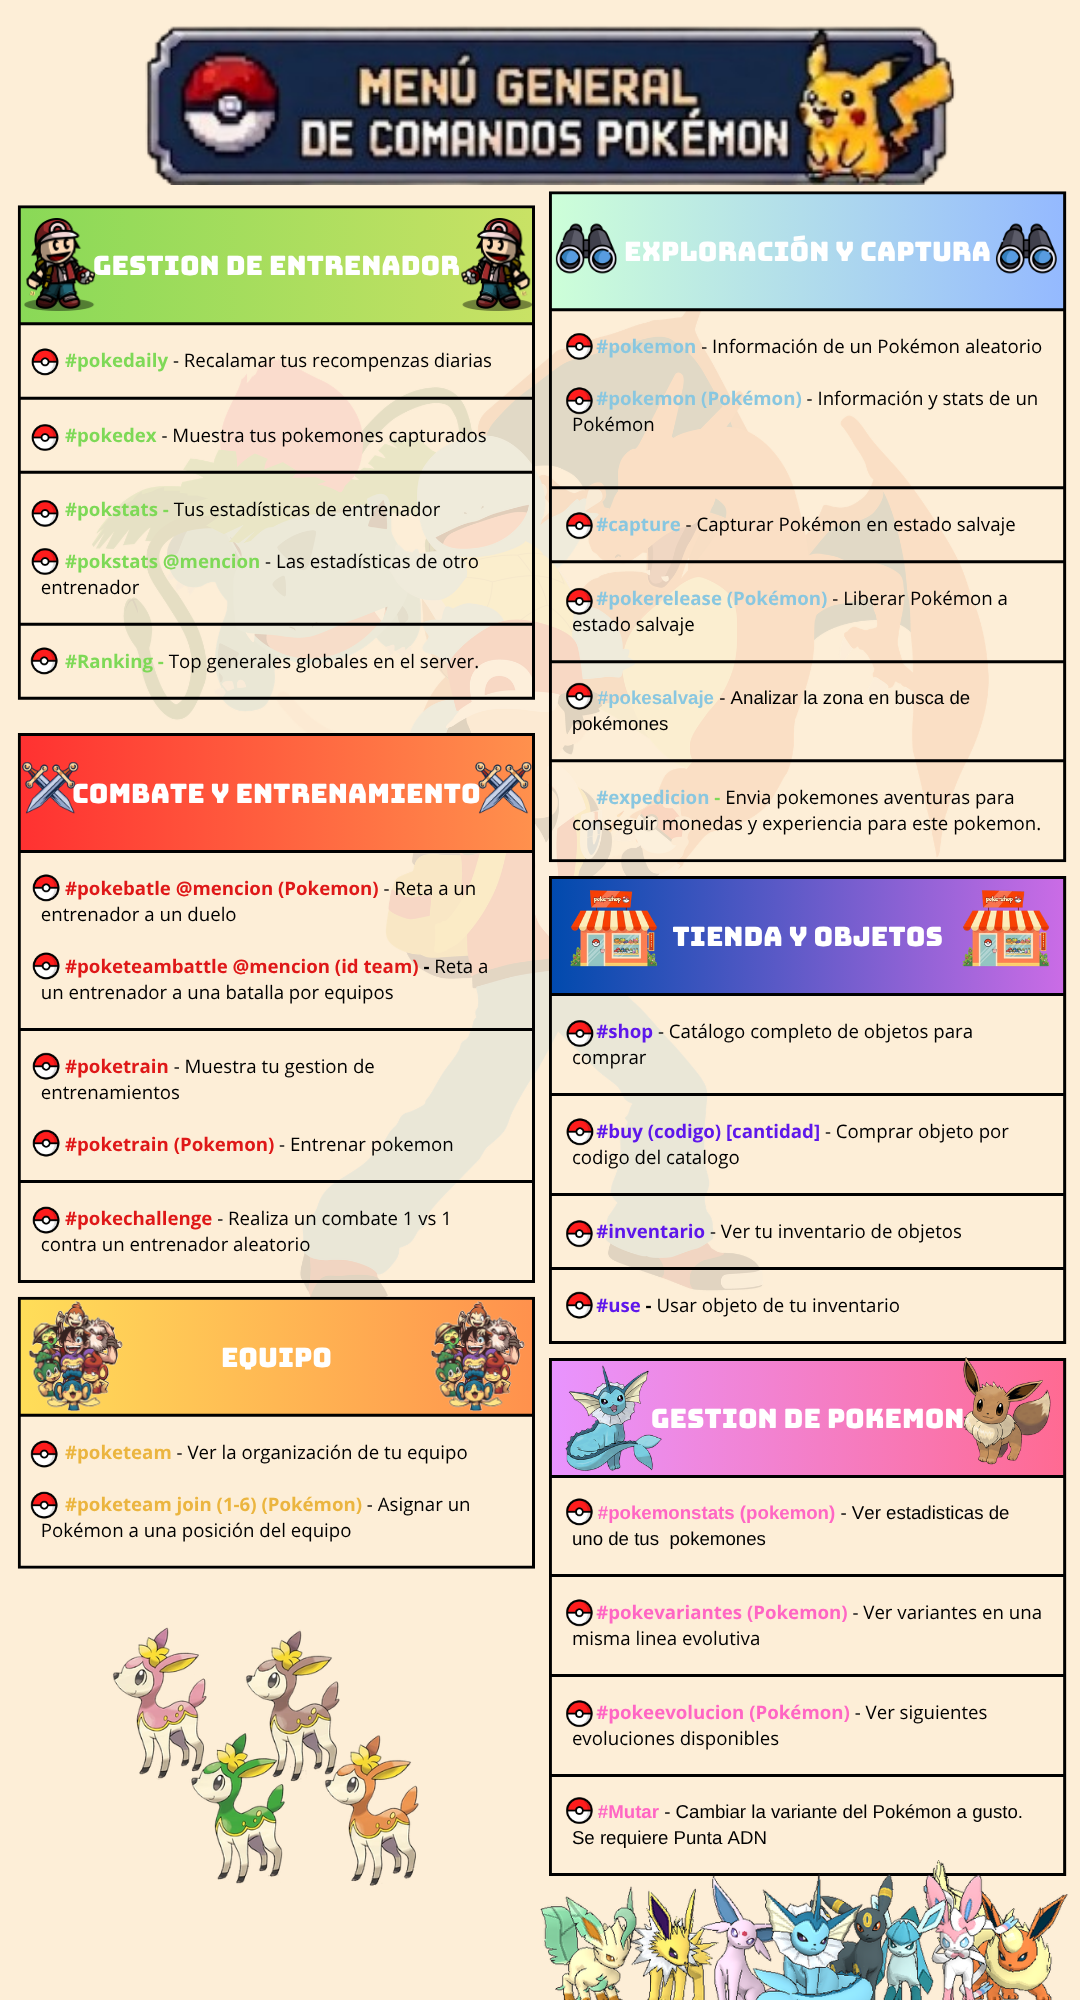
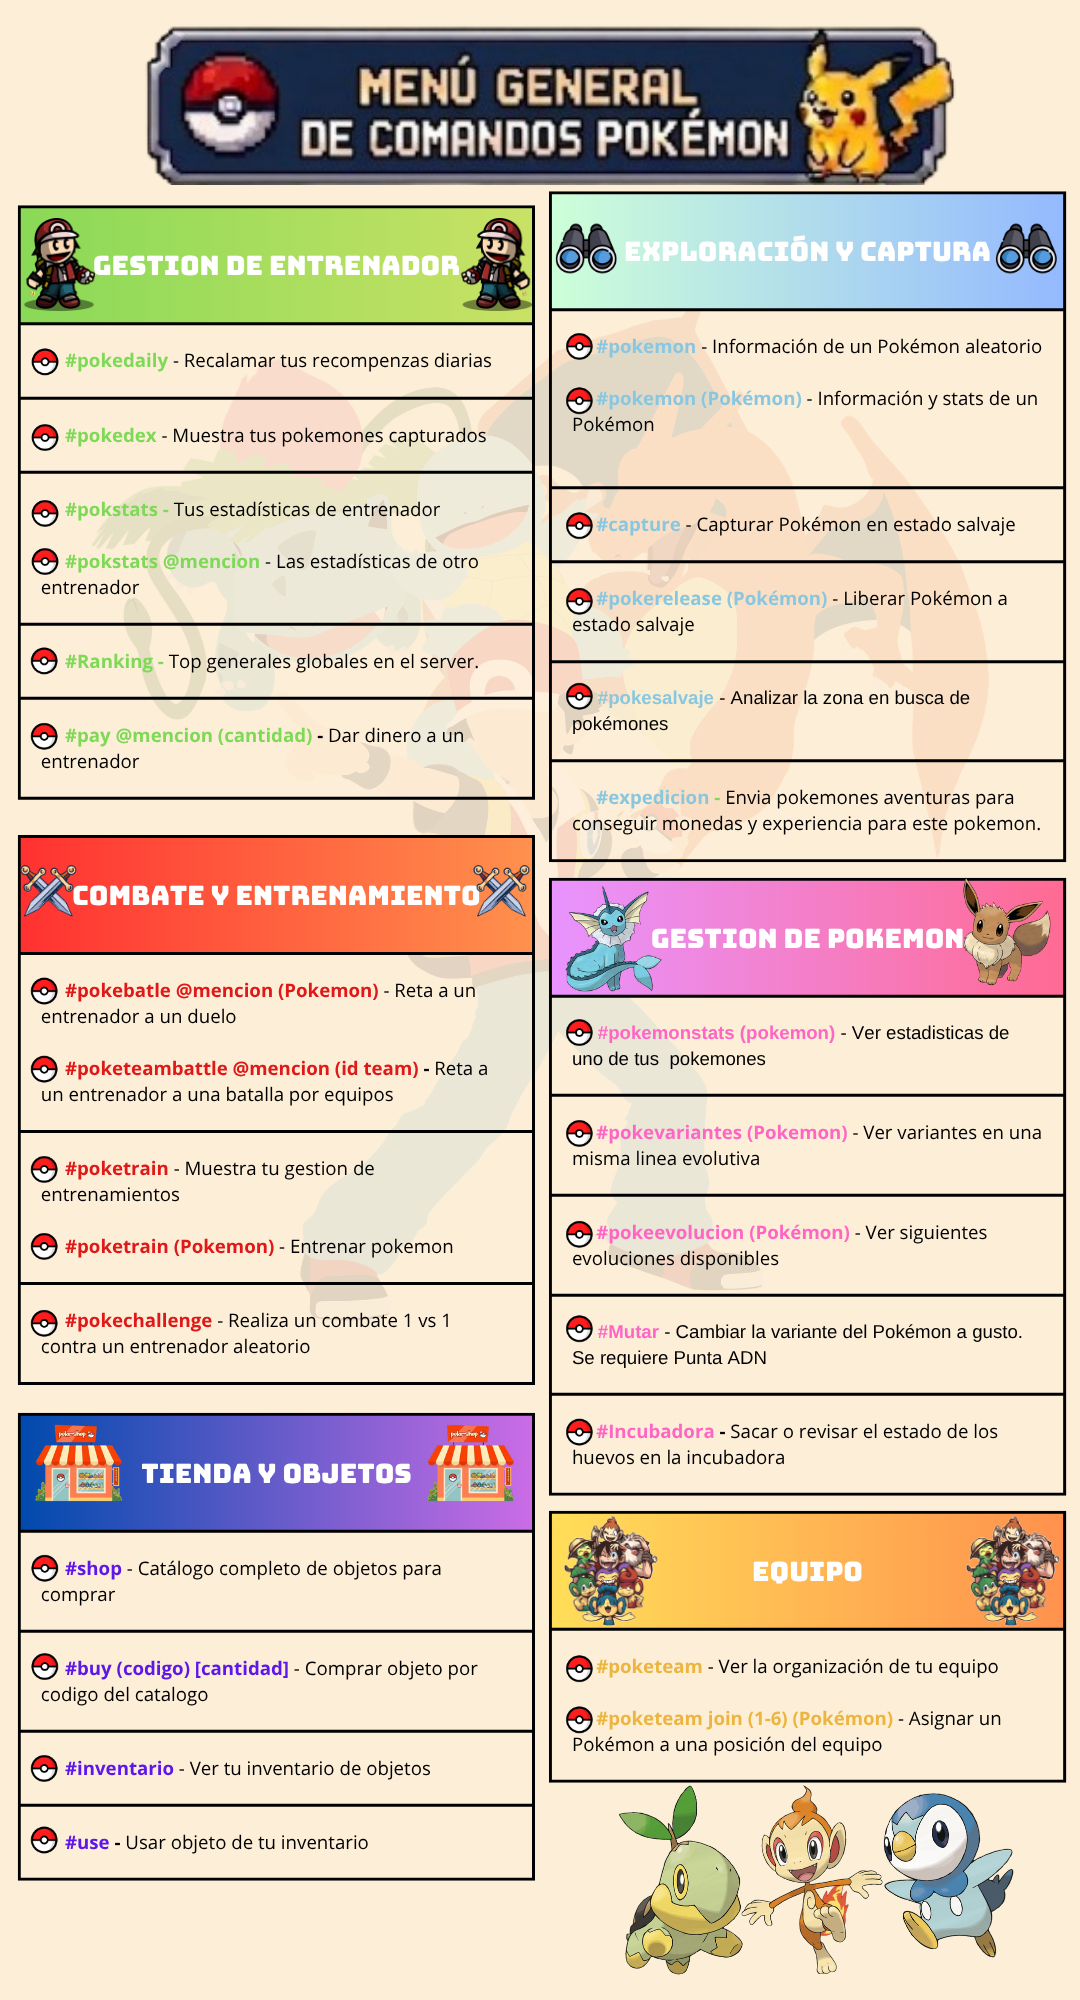
incubacion de huevos

Changed region(s): [[0.0, 0.341, 1.0, 1.0]]

diff --git a/services/pokemonService.js b/services/pokemonService.js
@@ -695,6 +695,139 @@ async function reclamarExpedicion(expedicion) {
   }
 }
 
+// ==========================================
+// FUNCIONES DE INCUBADORA
+// ==========================================
+
+async function usarHuevoIncubadora(whatsappId) {
+  const connection = await db.getConnection();
+  try {
+    await connection.beginTransaction();
+
+    // 1. Obtener ID interno del usuario
+    const [usuarios] = await connection.execute('SELECT id FROM usuarios WHERE whatsapp_id = ?', [whatsappId]);
+    if (usuarios.length === 0) {
+      await connection.rollback();
+      return { error: 'usuario_no_encontrado' };
+    }
+    const usuarioId = usuarios[0].id;
+
+    // 2. Verificar si tiene un huevo en el inventario
+    const [inv] = await connection.execute(
+      'SELECT egg FROM inventario WHERE usuario_id = ? FOR UPDATE',
+      [usuarioId]
+    );
+
+    if (!inv[0] || inv[0].egg <= 0) {
+      await connection.rollback();
+      return { error: 'sin_objetos' };
+    }
+
+    // 3. Verificar si YA tiene un huevo en la incubadora
+    const [incubando] = await connection.execute(
+      'SELECT id FROM incubadora WHERE usuario_id = ?',
+      [usuarioId]
+    );
+    
+    if (incubando.length > 0) {
+      await connection.rollback();
+      return { error: 'ya_incubando' };
+    }
+
+    // 4. Descontar el huevo del inventario
+    await connection.execute(
+      'UPDATE inventario SET egg = egg - 1 WHERE usuario_id = ?',
+      [usuarioId]
+    );
+
+    // 5. Insertar en la tabla incubadora
+    // fecha_inicio se pondrá sola por el DEFAULT CURRENT_TIMESTAMP que configuraste
+    await connection.execute(
+      'INSERT INTO incubadora (usuario_id) VALUES (?)',
+      [usuarioId]
+    );
+
+    await connection.commit();
+    return { success: true };
+  } catch (error) {
+    await connection.rollback();
+    console.error('Error al usar huevo en incubadora:', error);
+    return { error: 'db_error' };
+  } finally {
+    connection.release();
+  }
+}
+
+async function revisarIncubadora(whatsappId) {
+  const connection = await db.getConnection();
+  try {
+    await connection.beginTransaction();
+
+    const [usuarios] = await connection.execute('SELECT id FROM usuarios WHERE whatsapp_id = ?', [whatsappId]);
+    if (usuarios.length === 0) {
+      await connection.rollback();
+      return { error: 'usuario_no_encontrado' };
+    }
+    const usuarioId = usuarios[0].id;
+
+    // Obtener TODOS los huevos del usuario
+    const [incubando] = await connection.execute(
+      'SELECT id, fecha_inicio FROM incubadora WHERE usuario_id = ? FOR UPDATE',
+      [usuarioId]
+    );
+    
+    if (incubando.length === 0) {
+      await connection.rollback();
+      return { estado: 'vacio' };
+    }
+
+    const ahora = new Date();
+    const tiempoRequeridoMs = 20 * 60 * 60 * 1000; 
+    let huevosEclosionados = [];
+    let huevosEnEspera = [];
+
+    // Evaluar cada huevo individualmente
+    for (const huevo of incubando) {
+      const inicio = new Date(huevo.fecha_inicio);
+      const tiempoPasadoMs = ahora - inicio;
+
+      if (tiempoPasadoMs >= tiempoRequeridoMs) {
+        // Ya pasaron 24h: Eclosionar
+        await connection.execute('DELETE FROM incubadora WHERE id = ?', [huevo.id]);
+        
+        const bebesIds = [172, 173, 174, 175, 236, 238, 239, 240, 298, 360, 406, 433, 438, 439, 440, 446, 447, 458, 848];
+        const randomPokemonId = bebesIds[Math.floor(Math.random() * bebesIds.length)];
+        
+        huevosEclosionados.push(randomPokemonId);
+      } else {
+        // Aún le falta tiempo
+        const restanteMs = tiempoRequeridoMs - tiempoPasadoMs;
+        huevosEnEspera.push({
+          horas: Math.floor(restanteMs / (1000 * 60 * 60)),
+          minutos: Math.floor((restanteMs % (1000 * 60 * 60)) / (1000 * 60))
+        });
+      }
+    }
+
+    await connection.commit();
+
+    // Retornamos el reporte completo
+    return { 
+      estado: huevosEclosionados.length > 0 ? 'eclosionados' : 'incubando', 
+      nacimientos: huevosEclosionados,
+      enEspera: huevosEnEspera,
+      usuarioId: usuarioId 
+    };
+
+  } catch (error) {
+    await connection.rollback();
+    console.error('Error al revisar incubadora:', error);
+    return { error: 'db_error' };
+  } finally {
+    connection.release();
+  }
+}
+
 module.exports = {
   registrarCaptura,
   restarPokeball,
@@ -717,5 +850,7 @@ module.exports = {
   cambiarVariantePokemon,
   reclamarExpedicion,
   enviarExpedicion,
-  obtenerExpediciones
+  obtenerExpediciones,
+  usarHuevoIncubadora,
+  revisarIncubadora
 };

diff --git a/commands/use.js b/commands/use.js
@@ -6,9 +6,10 @@ const { replyText } = require('../services/reply');
 async function handleUse(msg, texto) {
   const partes = texto.replace('#use', '').trim().split(' ');
   const item = partes[0]?.toLowerCase();
+  const requierePokemon = !['egg', 'huevo'].includes(item);
 
-  if (!item || partes.length < 2) {
-    return await replyText(msg, '❌ Formato: `#use [objeto] (nombre_pokemon)`\n👉 Ejemplo: `#use rocas_evolutivas Pikachu`');
+  if (!item || (requierePokemon && partes.length < 2)) {
+    return await replyText(msg, '❌ Formato: `#use [objeto] (nombre_pokemon)`\n👉 Ejemplo: `#use rocas_evolutivas Pikachu`\n👉 Para incubar: `#use egg`');
   }
 
   const whatsappId = msg.author ? msg.author.split('@')[0] : msg.from.split('@')[0];
@@ -174,6 +175,26 @@ async function handleUse(msg, texto) {
       return await replyText(msg, `🧬 ¡Has usado la Punta ADN en *${pokemon.nombre}* con éxito!`);
     } else {
       return await replyText(msg, '⚠ Hubo un error al intentar modificar el ADN de tu Pokémon.');
+    }
+  }
+
+  // ==========================================
+  // LÓGICA: HUEVO (EGG)
+  // ==========================================
+  if (item === 'egg') {
+    const resultado = await pokemonService.usarHuevoIncubadora(whatsappId);
+    
+    if (resultado.error === 'sin_objetos') {
+      return await replyText(msg, '🥚 No tienes ningún Huevo en tu inventario. ¡Puedes comprarlo en la tienda!');
+    } else if (resultado.error === 'limite_alcanzado') {
+      // NUEVO MENSAJE DE LÍMITE
+      return await replyText(msg, '🛑 Límite alcanzado: Ya tienes el máximo de 3 huevos en tu incubadora en este momento.');
+    } else if (resultado.error === 'usuario_no_encontrado') {
+      return await replyText(msg, '❌ No estás registrado.');
+    } else if (resultado.error === 'db_error') {
+      return await replyText(msg, '⚠ Hubo un error interno al intentar colocar el huevo en la incubadora.');
+    } else if (resultado.success) {
+      return await replyText(msg, '🥚♨ ¡Has colocado un Huevo en la incubadora con éxito!\n\nDeberás cuidarlo y esperar *24 horas* para que eclosione.');
     }
   }
 

diff --git a/commands/incubadora.js b/commands/incubadora.js
@@ -1,0 +1,45 @@
+const pokemonService = require('../services/pokemonService');
+const { consultarPokemon, formatName } = require('../services/pokeapi');
+
+async function handleIncubadora(msg) {
+  const whatsappId = msg.author ? msg.author.split('@')[0] : msg.from.split('@')[0];
+  const resultado = await pokemonService.revisarIncubadora(whatsappId);
+
+  if (resultado.error === 'usuario_no_encontrado') return await msg.reply('❌ No estás registrado como entrenador.');
+  if (resultado.error === 'db_error') return await msg.reply('⚠ Hubo un error interno al revisar tu incubadora.');
+  if (resultado.estado === 'vacio') return await msg.reply('♨ Tu incubadora está vacía en este momento.\nPuedes poner a incubar un huevo usando:\n👉 `#use egg`');
+
+  let mensaje = '';
+
+  // 1. Mostrar los huevos que eclosionaron (si hubo)
+  if (resultado.nacimientos && resultado.nacimientos.length > 0) {
+    mensaje += `🎉 ¡Tus huevos están eclosionando! 🥚✨\n\n`;
+    
+    for (const idApi of resultado.nacimientos) {
+      try {
+        const data = await consultarPokemon(idApi);
+        const nombrePokemon = formatName ? formatName(data.name) : data.name;
+        
+        await pokemonService.registrarCaptura(resultado.usuarioId, data.id, nombrePokemon, 1, 0);
+        mensaje += `🎊 Ha nacido un *${nombrePokemon}* (Nivel 1).\n`;
+      } catch (err) {
+        mensaje += `⚠ Un huevo eclosionó pero hubo un error obteniendo la info de la PokéAPI.\n`;
+      }
+    }
+    mensaje += `\n¡Se han añadido a tu inventario!\n`;
+  }
+
+  // 2. Mostrar los huevos que siguen incubando (si quedaron)
+  if (resultado.enEspera && resultado.enEspera.length > 0) {
+    if (mensaje !== '') mensaje += `\n───────────────\n\n`; // Separador si nacieron y aún quedan otros
+    mensaje += `♨ *HUEVOS EN INCUBACIÓN*\n`;
+    
+    resultado.enEspera.forEach((huevo, index) => {
+      mensaje += `🥚 Huevo ${index + 1}: Faltan *${huevo.horas}h y ${huevo.minutos}m*\n`;
+    });
+  }
+
+  return await msg.reply(mensaje.trim());
+}
+
+module.exports = { handleIncubadora };

diff --git a/services/tiendaService.js b/services/tiendaService.js
@@ -28,6 +28,8 @@ async function procesarCompra(usuarioId, codigo, cantidad) {
       producto = { nombre: "rocas_evolutivas", precioUnitario: 500, tipo: 'inventario' };
     } else if (codigo === '004') {
       producto = { nombre: "punta_adn", precioUnitario: 300, tipo: 'inventario' };
+    } else if (codigo === '005') { 
+      producto = { nombre: "egg", precioUnitario: 400, tipo: 'inventario' };
     } else {
       await connection.rollback();
       return { error: 'codigo_invalido' };
@@ -59,16 +61,18 @@ async function procesarCompra(usuarioId, codigo, cantidad) {
       if (producto.nombre === 'Poción_XP_Small') columna = 'pocion_xp_small';
       else if (producto.nombre === 'rocas_evolutivas') columna = 'rocas_evolutivas';
       else if (producto.nombre === 'punta_adn') columna = 'punta_adn';
+      else if (producto.nombre === 'egg') columna = 'egg';
 
       if (invRows.length === 0) {
         // Si NO tiene fila en inventario, la creamos y le asignamos la cantidad comprada de una vez
         const pocionInit = columna === 'pocion_xp_small' ? cantidad : 0;
         const rocasInit = columna === 'rocas_evolutivas' ? cantidad : 0;
         const puntaAdnInit = columna === 'punta_adn' ? cantidad : 0;
-        
+        const eggInit = columna === 'egg' ? cantidad : 0;
+
         await connection.execute(
-          'INSERT INTO inventario (usuario_id, pocion_xp_small, rare_candy, rocas_evolutivas, punta_adn) VALUES (?, ?, 0, ?, ?)',
-          [usuarioId, pocionInit, rocasInit, puntaAdnInit]
+          'INSERT INTO inventario (usuario_id, pocion_xp_small, rare_candy, rocas_evolutivas, punta_adn, egg) VALUES (?, ?, 0, ?, ?, ?)',
+          [usuarioId, pocionInit, rocasInit, puntaAdnInit, eggInit]
         );
       } else {
         // Si YA existe, simplemente actualizamos la cantidad sumando a lo que ya tenía

diff --git a/services/bot.js b/services/bot.js
@@ -190,6 +190,7 @@ class BotManager extends EventEmitter {
         textoMinuscula.startsWith('#ranking') ||
         textoMinuscula.startsWith('#mutar') ||
         textoMinuscula.startsWith('#expedicion') ||
+        textoMinuscula === '#incubadora' ||
         textoMinuscula === '#pokehelp';
 
       if (!esComando) return;
@@ -242,6 +243,14 @@ class BotManager extends EventEmitter {
         if (textoMinuscula.startsWith('#expedicion')) {
             const { handleExpedicion } = require('../commands/expedicion');
             return await handleExpedicion(msg, texto);
+        }
+
+        // ==========================================
+        // COMANDO: #incubadora
+        // ==========================================
+        if (textoMinuscula === '#incubadora') {
+          const { handleIncubadora } = require('../commands/incubadora');
+          return await handleIncubadora(msg);
         }
 
         // ==========================================

diff --git a/services/usuarioService.js b/services/usuarioService.js
@@ -153,7 +153,7 @@ async function transferirMonedas(remitenteId, destinatarioId, cantidad) {
 async function obtenerInventarioCompleto(whatsappId) {
   try {
     const query = `
-      SELECT u.pokeballs, i.pocion_xp_small, i.rocas_evolutivas, i.punta_adn
+      SELECT u.pokeballs, i.pocion_xp_small, i.rocas_evolutivas, i.punta_adn, i.egg
       FROM usuarios u
       LEFT JOIN inventario i ON u.id = i.usuario_id
       WHERE u.whatsapp_id = ?
@@ -167,7 +167,8 @@ async function obtenerInventarioCompleto(whatsappId) {
       pokeballs: rows[0].pokeballs || 0,
       pocion_xp_small: rows[0].pocion_xp_small || 0,
       rocas_evolutivas: rows[0].rocas_evolutivas || 0,
-      punta_adn: rows[0].punta_adn || 0
+      punta_adn: rows[0].punta_adn || 0,
+      egg: rows[0].egg || 0
     };
   } catch (error) {
     console.error('Error al obtener inventario:', error);

diff --git a/commands/inventario.js b/commands/inventario.js
@@ -17,6 +17,7 @@ async function handleInventario(msg) {
     mensaje += `🧪 *pocion_xp:* ${inv.pocion_xp_small}\n`;
     mensaje += `🪨 *rocas_evolutivas:* ${inv.rocas_evolutivas}\n`;
     mensaje += `🧬 *punta_adn:* ${inv.punta_adn}\n`;
+    mensaje += `🥚 *egg:* ${inv.egg}\n`;
     mensaje += `──────────────────────\n`;
     mensaje += `👉 _Usa #buy para adquirir más objetos._`;
 
